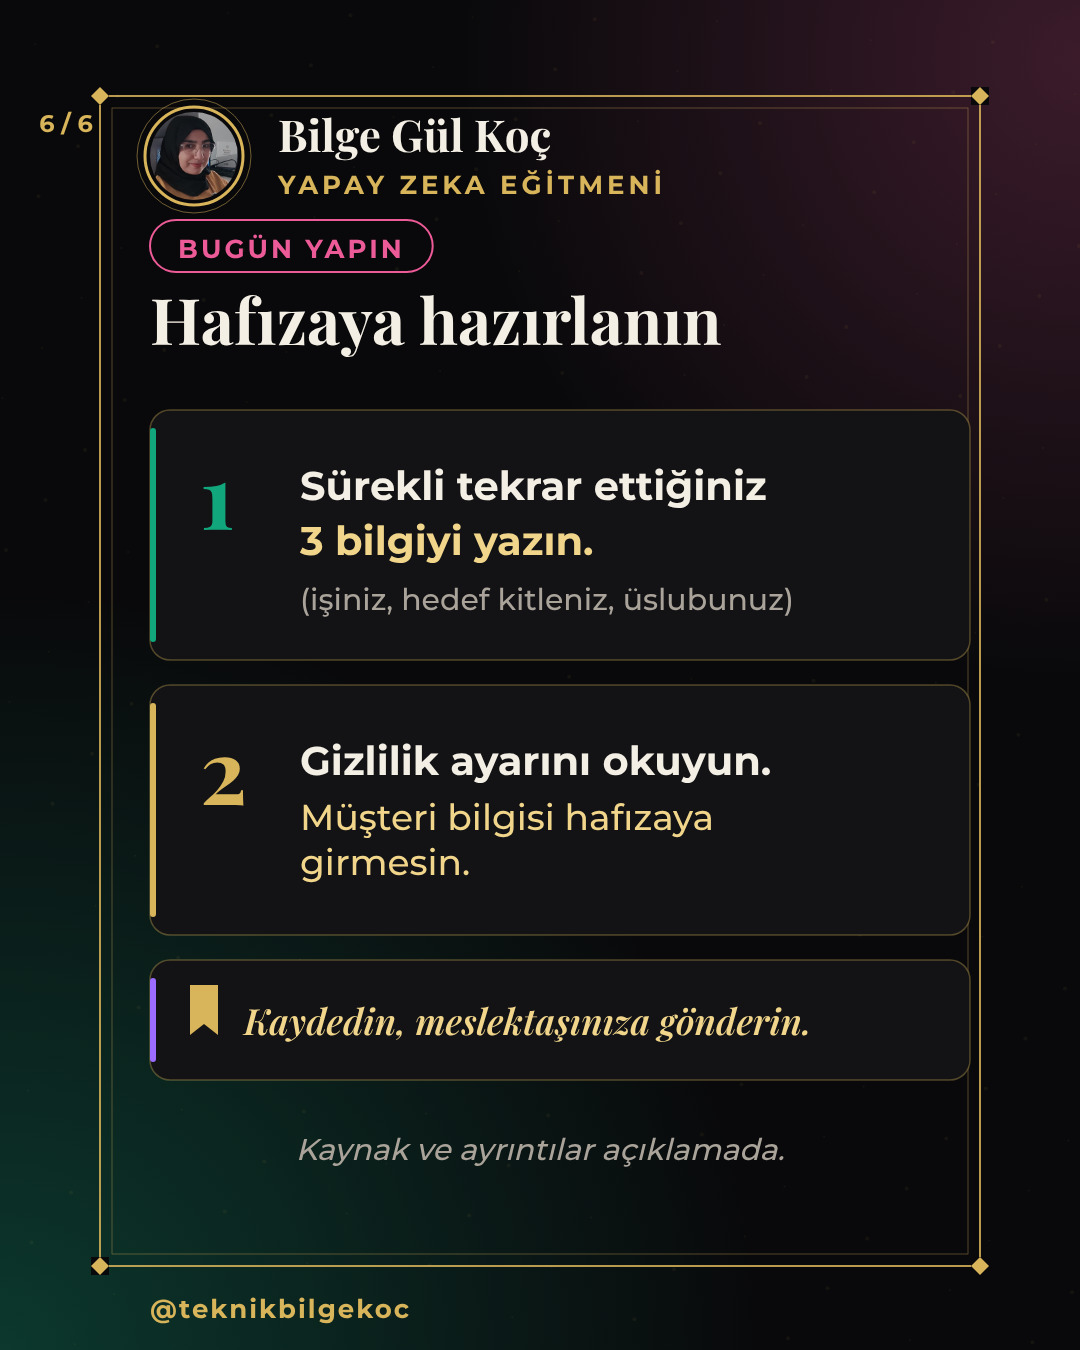
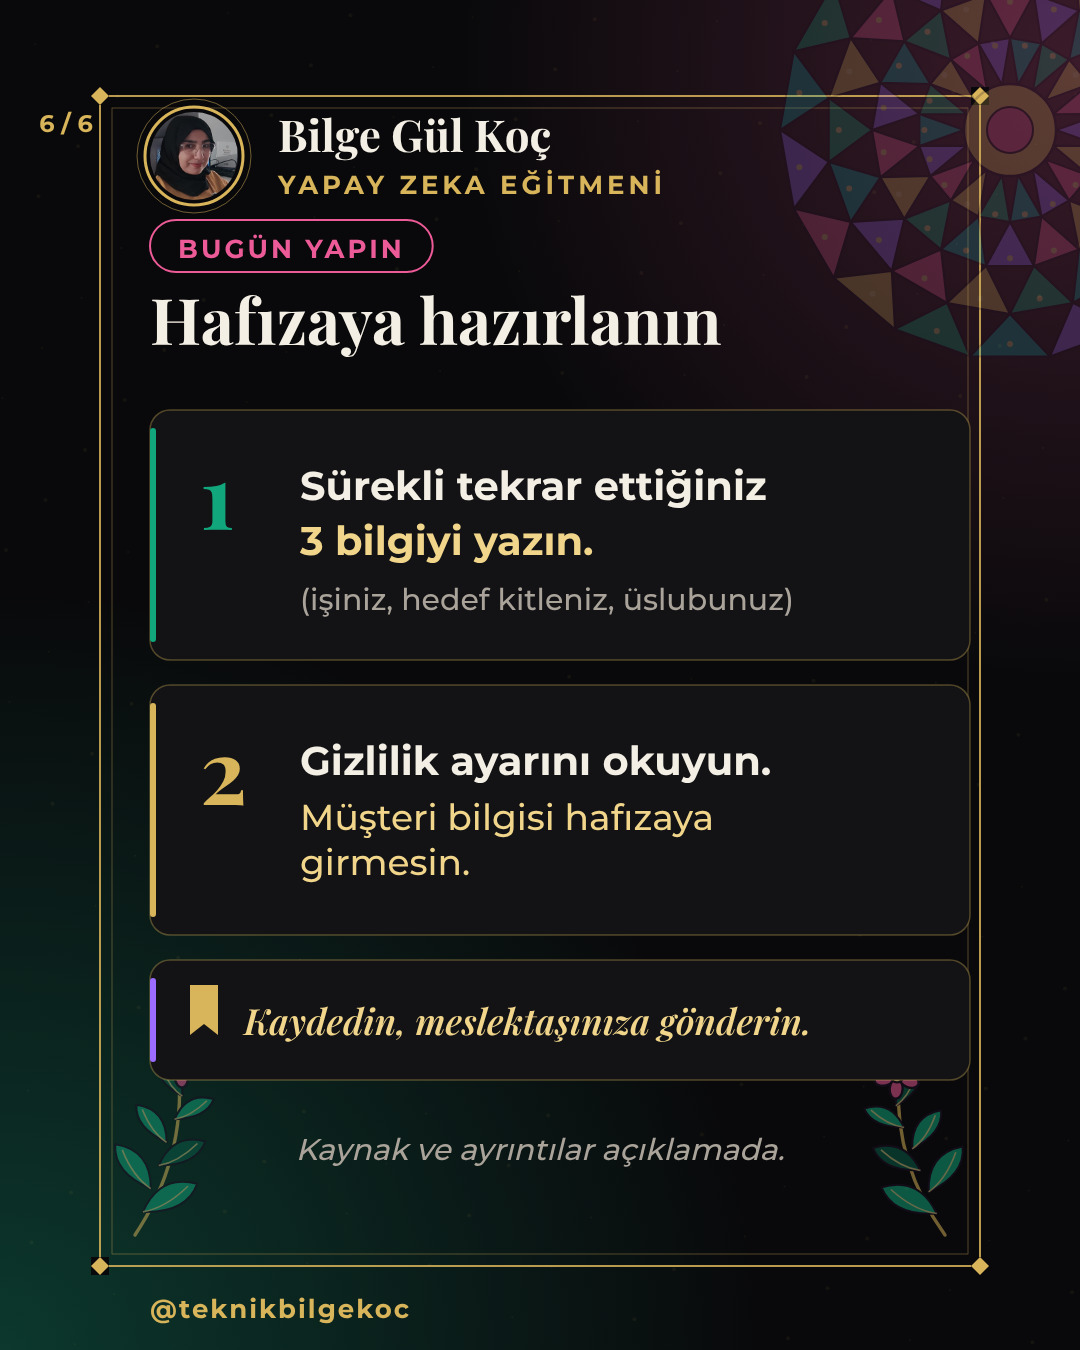
Deneme karuseli: profil rozeti ve çiçek/kaleydoskop süslemesi (Fahrelnissa Zeid esinli)
Claude-Session: https://claude.ai/code/session_01JaGdhEQurBXJ4ps3vmXo5q

Changed region(s): [[0.7028, 0.0, 1.0, 0.28], [0.7944, 0.7778, 0.8861, 0.9022], [0.0917, 0.8089, 0.1833, 0.9022]]

diff --git a/2026-10-13-deneme/s2.js b/2026-10-13-deneme/s2.js
@@ -1,3 +1,8 @@
+const suslemeler = () => {
+  kaleydoskop(svg, 1010, 130, 230, 0.22);
+  dal(135, 1235, 170, 12, 1, C.emerald).setAttribute('opacity', 0.5);
+  dal(945, 1235, 160, -14, -1, C.emerald).setAttribute('opacity', 0.5);
+};
 let MARK = 0;
 const baslik = (k, t, col) => { profil(150, 112, 88); chip(k, 150, 250, col); serif(t, 150, 345, { size: 64, color: C.ivory }); MARK = svg.childNodes.length; };
 const kaydir = () => { const G = g({ transform: 'translate(0,60)' }); [...svg.childNodes].slice(MARK, -1).forEach(n => G.appendChild(n)); };
@@ -7,7 +12,7 @@ const balon = (x, y, w, col, n = 3, ok = 'sol') => {
   P(svg, ok === 'sol' ? `M${x + 36} ${y + 90} l-14 30 l42 -24` : `M${x + w - 36} ${y + 90} l14 30 l-42 -24`, '#1B0F24', { stroke: col, 'stroke-width': 5, 'stroke-linejoin': 'round' });
 };
 async function build() {
-  await fontsReady(); paper('pink'); footer('2 / 6');
+  await fontsReady(); paper('pink'); footer('2 / 6'); suslemeler();
   baslik('ŞİMDİYE KADAR', 'Hep sıfırdan başlardı', C.pink);
   // tekrar eden balonlar + sıfırlama oku
   [0, 1, 2].forEach(i => { balon(i % 2 ? 460 : 170, 420 + i * 190, 330, i === 1 ? C.pink : C.goldHi, 3, i % 2 ? 'sag' : 'sol'); });

diff --git a/2026-10-13-deneme/s5.js b/2026-10-13-deneme/s5.js
@@ -1,3 +1,8 @@
+const suslemeler = () => {
+  kaleydoskop(svg, 1010, 130, 230, 0.22);
+  dal(135, 1235, 170, 12, 1, C.emerald).setAttribute('opacity', 0.5);
+  dal(945, 1235, 160, -14, -1, C.emerald).setAttribute('opacity', 0.5);
+};
 let MARK = 0;
 const baslik = (k, t, col) => { profil(150, 112, 88); chip(k, 150, 250, col); serif(t, 150, 345, { size: 64, color: C.ivory }); MARK = svg.childNodes.length; };
 const kaydir = () => { const G = g({ transform: 'translate(0,60)' }); [...svg.childNodes].slice(MARK, -1).forEach(n => G.appendChild(n)); };
@@ -7,7 +12,7 @@ const balon = (x, y, w, col, n = 3, ok = 'sol') => {
   P(svg, ok === 'sol' ? `M${x + 36} ${y + 90} l-14 30 l42 -24` : `M${x + w - 36} ${y + 90} l14 30 l-42 -24`, '#1B0F24', { stroke: col, 'stroke-width': 5, 'stroke-linejoin': 'round' });
 };
 async function build() {
-  await fontsReady(); paper('purple'); footer('5 / 6');
+  await fontsReady(); paper('purple'); footer('5 / 6'); suslemeler();
   baslik('KİMLER KULLANABİLİR?', 'Önce geliştiriciler', C.gold);
   card(150, 360, 820, 270, C.emerald);
   text('ŞİMDİ', 200, 425, { size: 30, weight: 700, color: C.emerald, ls: 5 });

diff --git a/2026-10-13-deneme/s6.js b/2026-10-13-deneme/s6.js
@@ -1,3 +1,8 @@
+const suslemeler = () => {
+  kaleydoskop(svg, 1010, 130, 230, 0.22);
+  dal(135, 1235, 170, 12, 1, C.emerald).setAttribute('opacity', 0.5);
+  dal(945, 1235, 160, -14, -1, C.emerald).setAttribute('opacity', 0.5);
+};
 let MARK = 0;
 const baslik = (k, t, col) => { profil(150, 112, 88); chip(k, 150, 250, col); serif(t, 150, 345, { size: 64, color: C.ivory }); MARK = svg.childNodes.length; };
 const kaydir = () => { const G = g({ transform: 'translate(0,60)' }); [...svg.childNodes].slice(MARK, -1).forEach(n => G.appendChild(n)); };
@@ -7,7 +12,7 @@ const balon = (x, y, w, col, n = 3, ok = 'sol') => {
   P(svg, ok === 'sol' ? `M${x + 36} ${y + 90} l-14 30 l42 -24` : `M${x + w - 36} ${y + 90} l14 30 l-42 -24`, '#1B0F24', { stroke: col, 'stroke-width': 5, 'stroke-linejoin': 'round' });
 };
 async function build() {
-  await fontsReady(); paper('pink'); footer('6 / 6');
+  await fontsReady(); paper('pink'); footer('6 / 6'); suslemeler();
   baslik('BUGÜN YAPIN', 'Hafızaya hazırlanın', C.pink);
   card(150, 350, 820, 250, C.emerald);
   text('1', 200, 470, { size: 90, font: 'Playfair Display', weight: 700, color: C.emerald });

diff --git a/2026-10-13-deneme/s3.js b/2026-10-13-deneme/s3.js
@@ -1,3 +1,8 @@
+const suslemeler = () => {
+  kaleydoskop(svg, 1010, 130, 230, 0.22);
+  dal(135, 1235, 170, 12, 1, C.emerald).setAttribute('opacity', 0.5);
+  dal(945, 1235, 160, -14, -1, C.emerald).setAttribute('opacity', 0.5);
+};
 let MARK = 0;
 const baslik = (k, t, col) => { profil(150, 112, 88); chip(k, 150, 250, col); serif(t, 150, 345, { size: 64, color: C.ivory }); MARK = svg.childNodes.length; };
 const kaydir = () => { const G = g({ transform: 'translate(0,60)' }); [...svg.childNodes].slice(MARK, -1).forEach(n => G.appendChild(n)); };
@@ -7,7 +12,7 @@ const balon = (x, y, w, col, n = 3, ok = 'sol') => {
   P(svg, ok === 'sol' ? `M${x + 36} ${y + 90} l-14 30 l42 -24` : `M${x + w - 36} ${y + 90} l14 30 l-42 -24`, '#1B0F24', { stroke: col, 'stroke-width': 5, 'stroke-linejoin': 'round' });
 };
 async function build() {
-  await fontsReady(); paper('purple'); footer('3 / 6');
+  await fontsReady(); paper('purple'); footer('3 / 6'); suslemeler();
   baslik('AKTİF HAFIZA', 'Meta\'nın yeni vaadi: 3 adım', C.gold);
   const adim = (y, n, bas, alt, col, ic) => {
     card(150, y, 820, 210, col);

diff --git a/2026-10-13-deneme/s4.js b/2026-10-13-deneme/s4.js
@@ -1,3 +1,8 @@
+const suslemeler = () => {
+  kaleydoskop(svg, 1010, 130, 230, 0.22);
+  dal(135, 1235, 170, 12, 1, C.emerald).setAttribute('opacity', 0.5);
+  dal(945, 1235, 160, -14, -1, C.emerald).setAttribute('opacity', 0.5);
+};
 let MARK = 0;
 const baslik = (k, t, col) => { profil(150, 112, 88); chip(k, 150, 250, col); serif(t, 150, 345, { size: 64, color: C.ivory }); MARK = svg.childNodes.length; };
 const kaydir = () => { const G = g({ transform: 'translate(0,60)' }); [...svg.childNodes].slice(MARK, -1).forEach(n => G.appendChild(n)); };
@@ -7,7 +12,7 @@ const balon = (x, y, w, col, n = 3, ok = 'sol') => {
   P(svg, ok === 'sol' ? `M${x + 36} ${y + 90} l-14 30 l42 -24` : `M${x + w - 36} ${y + 90} l14 30 l-42 -24`, '#1B0F24', { stroke: col, 'stroke-width': 5, 'stroke-linejoin': 'round' });
 };
 async function build() {
-  await fontsReady(); paper('pink'); footer('4 / 6');
+  await fontsReady(); paper('pink'); footer('4 / 6'); suslemeler();
   baslik('AKTİF ODAK', 'Takılınca pes etmiyor', C.emerald);
   // yol: başla -> engel -> alternatif -> onay -> hedef
   const y0 = 640;
